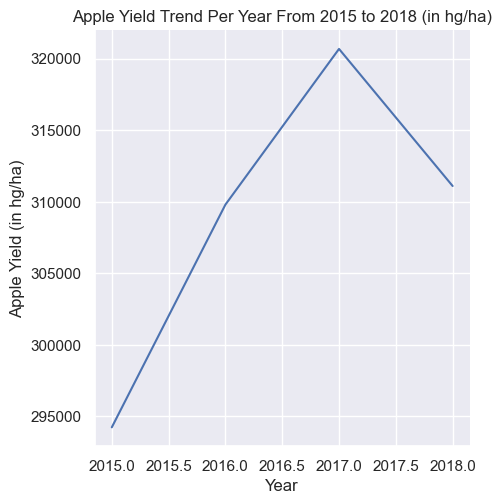
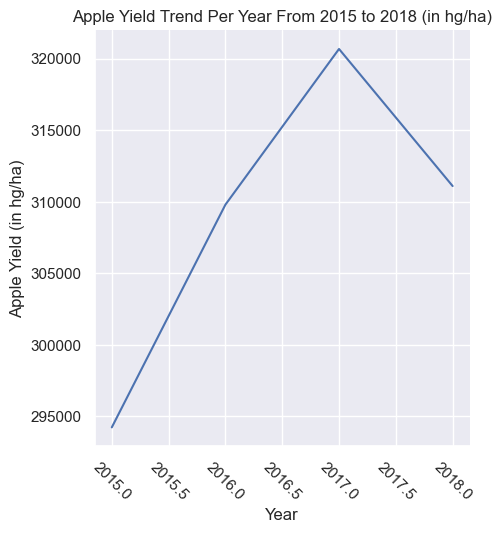
updated

diff --git a/task2.py b/task2.py
@@ -25,6 +25,7 @@ def yield_trend(data_yield):
     filtered_avo_yield = data_yield[is_2015_to_2018 & is_Americas & is_Yield]
     sns.relplot(x='Year', y='Value', kind='line', data=filtered_avo_yield)
     plt.ylabel("Avocado Yield (in hg/ha)")
+    plt.xticks(rotation=-45)
     plt.title('Avocado Yield Trend Per Year From 2015 to 2018 (in hg/ha)')
     plt.savefig('./output/avocado_yield.png', bbox_inches='tight')
 
@@ -44,6 +45,7 @@ def sale_trend(data_sales):
                 data=filtered_avo_sales)
     plt.xlabel("Year")
     plt.ylabel("Average Avocado Price (in USD)")
+    plt.xticks(rotation=-45)
     plt.title('Average Price of an Avocado from 2015 to 2018')
     plt.savefig('./output/avocado_sales.png', bbox_inches='tight')
 
@@ -61,6 +63,7 @@ def apple_yield_trend(apple_data_yield):
                                             & is_Americas & is_Yield]
     sns.relplot(x='Year', y='Value', kind='line', data=filtered_apple_yield)
     plt.ylabel("Apple Yield (in hg/ha)")
+    plt.xticks(rotation=-45)
     plt.title('Apple Yield Trend Per Year From 2015 to 2018 (in hg/ha)')
     plt.savefig('./output/apple_yield.png', bbox_inches='tight')
 
